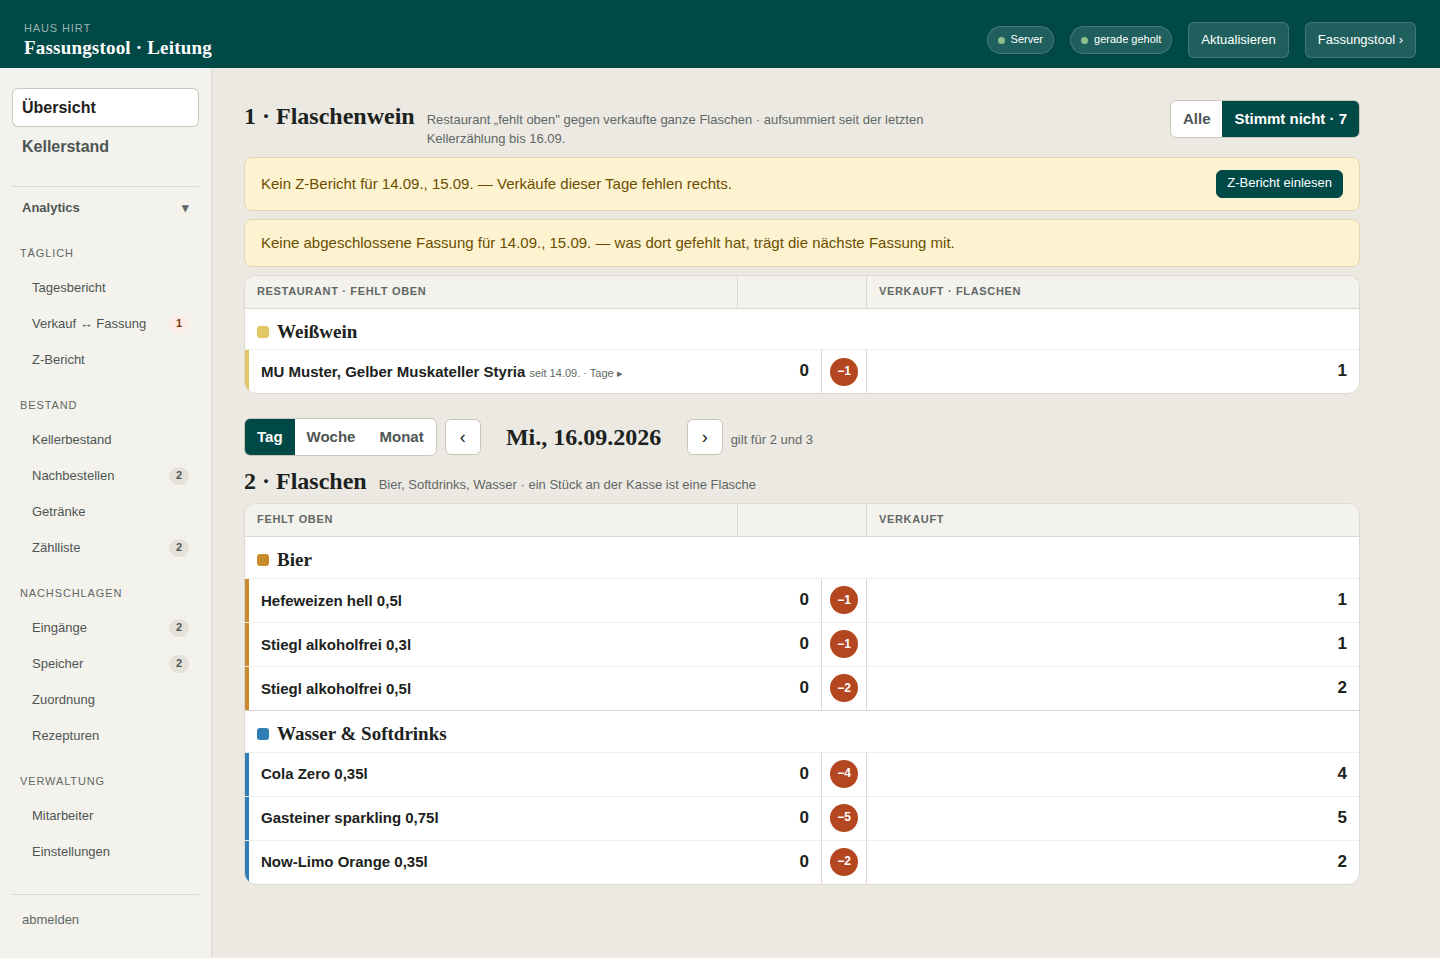
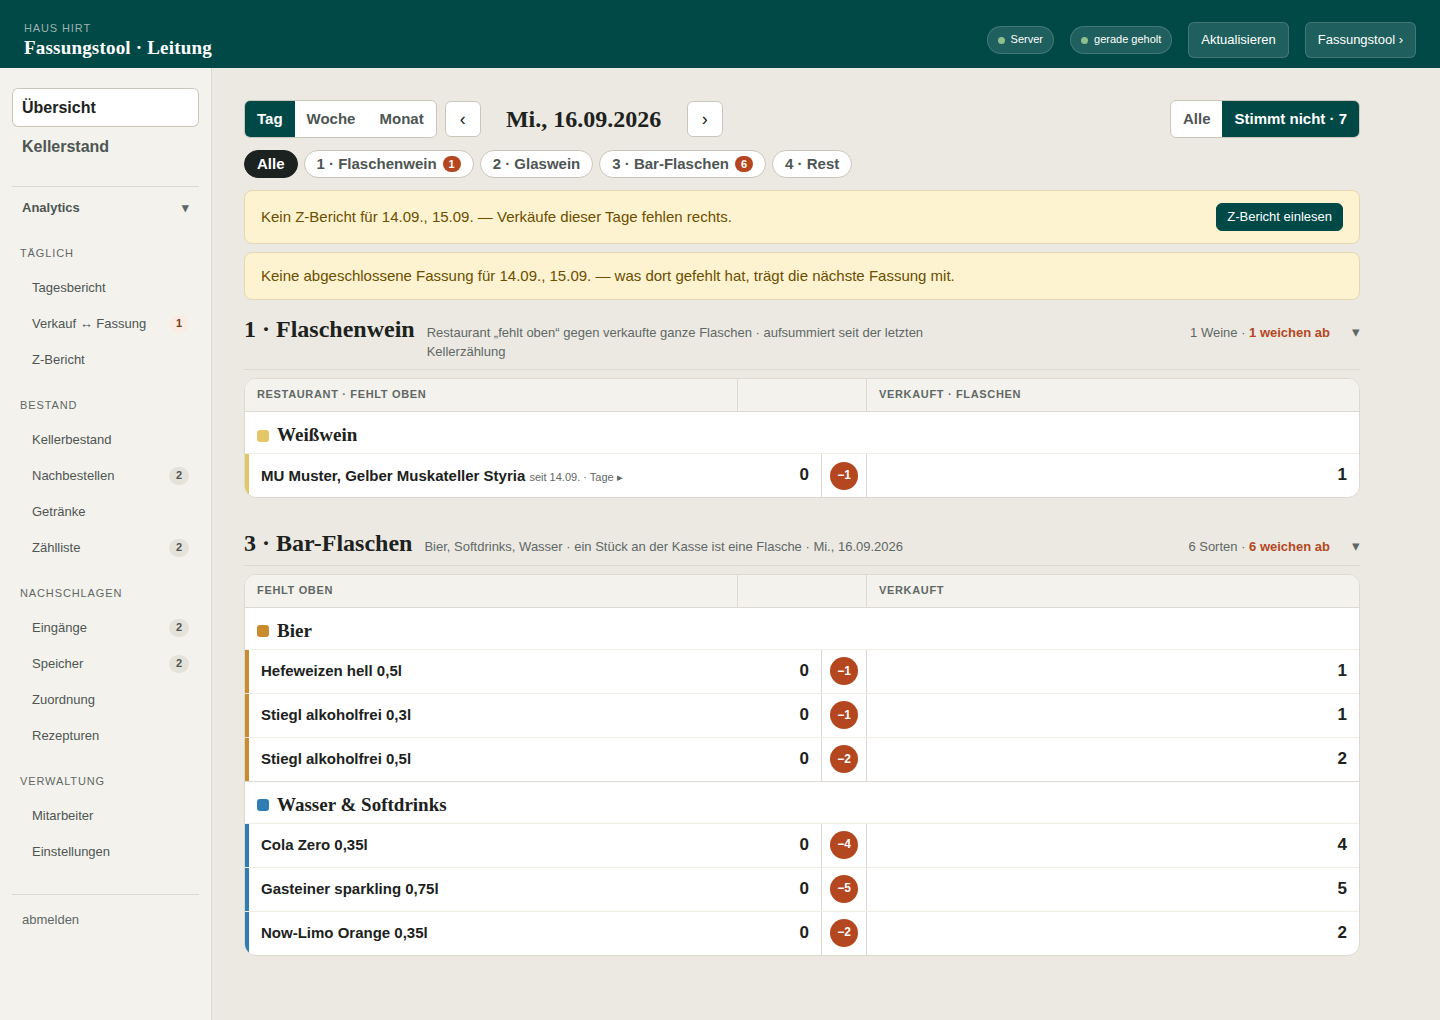
[software-engineer] Runde 24: Übersicht in vier Blöcken (Flaschenwein, Glaswein, Bar-Flaschen, Rest), filter- und aufklappbar
Claude-Session: https://claude.ai/code/session_01XL68Bp63fcSJLfNTZNmuMH

diff --git a/public/leitung.html b/public/leitung.html
@@ -417,8 +417,12 @@ nav.seite button.ana{padding-left:var(--space-5)}
 .bzu{display:block;width:100%;padding:6px var(--space-4);text-align:left;color:var(--fg-muted);
   font-size:var(--text-xs);background:var(--surface-2);border-top:1px solid var(--surface-3)}
 .bblock{margin-bottom:var(--space-6)}
-.bbkopf{display:flex;flex-wrap:wrap;align-items:baseline;gap:var(--space-3);margin-bottom:var(--space-2)}
-.bbkopf h2{font-size:24px}.bbkopf .rechts{margin-left:auto}
+.bbkopf{display:flex;flex-wrap:wrap;align-items:baseline;gap:var(--space-3);margin-bottom:var(--space-2);
+  width:100%;text-align:left;padding:var(--space-2) 0;border-bottom:1px solid var(--border)}
+.bbkopf h2{font-size:24px}
+.bbkopf .bbn{margin-left:auto;font-size:var(--text-sm);color:var(--fg-muted)}
+.bbkopf .bbn b{color:var(--danger)}
+.bbkopf .bbpf{color:var(--fg-muted);width:18px;text-align:right}
 .bblock.info .btab{opacity:.9}.bblock.info .bhd{background:var(--surface-3)}
 .bspur{background:var(--surface-2);border-top:1px solid var(--surface-3);padding:4px var(--space-4) 8px var(--space-6);font-size:var(--text-xs)}
 .bspur div{display:grid;grid-template-columns:1.4fr 1fr 1fr 1fr;gap:8px;padding:3px 0;font-variant-numeric:tabular-nums}
@@ -3370,69 +3374,90 @@ function block3(F){
     .sort((a,b)=>ARTEN.findIndex(q=>q.id===artVon(a.id))-ARTEN.findIndex(q=>q.id===artVon(b.id)) || artName(a.id).localeCompare(artName(b.id),"de"));
 }
 const pkt = d => Math.abs(d)<0.05 ? '<span class="dot ok" title="stimmt">✓</span>' : '<span class="dot no" title="weicht ab">'+fmtD(d)+'</span>';
+/* Runde 24 · Vier Blöcke in dieser Reihenfolge (Casimir, 30.09.): Flaschenwein,
+   Glaswein, Bar-Flaschen, Rest. Jeder für sich filter- und aufklappbar. */
+const BLOECKE=[
+  {id:"flasche", t:"Flaschenwein", s:"Restaurant „fehlt oben“ gegen verkaufte ganze Flaschen · aufsummiert seit der letzten Kellerzählung"},
+  {id:"glas",    t:"Glaswein",     s:"Bar-Weine gegen verkaufte Gläser · nur zur Info, ohne Urteil"},
+  {id:"bar",     t:"Bar-Flaschen", s:"Bier, Softdrinks, Wasser · ein Stück an der Kasse ist eine Flasche"},
+  {id:"rest",    t:"Rest",         s:"Serena, Mixer, Säfte · offen, nicht unter Kontrolle, nur zur Info"}
+];
 function vBlick(m){
   if(!UEB.ende) UEB.ende=letzterTag();
-  UEB.spur=UEB.spur||{};
+  UEB.spur=UEB.spur||{}; UEB.zu=UEB.zu||{}; UEB.block=UEB.block||"alle";
   const F=fenster(UEB.art, UEB.ende);
   const b1=block1(), b2=block2(F), b3=block3(F);
-  const n1=b1.zeilen.filter(z=>Math.abs(z.diff)>=0.05).length, n2=b2.filter(z=>Math.abs(z.diff)>=0.05).length;
+  const glas=b3.filter(z=>byId(z.id)&&!OFFEN_WEIN.includes(z.id)), rest=b3.filter(z=>!byId(z.id)||OFFEN_WEIN.includes(z.id));
+  const abw=z=>Math.abs(z.diff)>=0.05;
+  const n={flasche:b1.zeilen.filter(abw).length, glas:0, bar:b2.filter(abw).length, rest:0};
   const namen=gnNamen();
-  let h='';
-  /* ── 1 · Flaschenwein ── */
-  h+='<div class="bblock"><div class="bbkopf"><h2>1 · Flaschenwein</h2><span class="unter">Restaurant „fehlt oben" gegen verkaufte ganze Flaschen · aufsummiert seit der letzten Kellerzählung bis '+esc(kurzTag(b1.bis))+'</span>'+
-     '<div class="seg rechts" role="group"><button type="button" data-nur="0" class="'+(UEB.nur?'':'on')+'">Alle</button><button type="button" data-nur="1" class="'+(UEB.nur?'on':'')+'">Stimmt nicht · '+(n1+n2)+'</button></div></div>';
-  const lz=[...b1.luecken.ohneZ].sort().slice(-7), lf=[...b1.luecken.ohneF].sort().slice(-7);
-  if(lz.length) h+='<div class="hinweis warn bhw"><span>Kein Z-Bericht für '+lz.map(kurzTag).join(", ")+' — Verkäufe dieser Tage fehlen rechts.</span><button type="button" class="b klein stark" data-geh="import">Z-Bericht einlesen</button></div>';
-  if(lf.length) h+='<div class="hinweis warn bhw"><span>Keine abgeschlossene Fassung für '+lf.map(kurzTag).join(", ")+' — was dort gefehlt hat, trägt die nächste Fassung mit.</span></div>';
-  h+='<div class="btab"><div class="bhd"><div class="l">Restaurant · fehlt oben</div><div></div><div></div><div class="r">verkauft · Flaschen</div></div>';
-  let zeig1=b1.zeilen.filter(z=>!UEB.nur||Math.abs(z.diff)>=0.05);
-  if(!zeig1.length) h+='<div class="leer">'+(b1.zeilen.length?'Alle Flaschenweine stimmen.':'Seit der Zählung nichts zu vergleichen.')+'</div>';
-  let letzte=null;
-  zeig1.forEach(z=>{ const a=artVon(z.id), A=artInfo(a);
-    if(a!==letzte){ letzte=a; h+='<div class="bgrp k'+A.k+'"><i></i>'+esc(A.t)+'</div>'; }
-    h+='<button type="button" class="brow k'+A.k+'" data-spur="'+esc(z.id)+'"><div class="nm"><span class="'+(z.gn?'':'stammn')+'">'+esc(z.name)+'</span> <span class="m">seit '+esc(kurzTag(z.von))+' · Tage '+(UEB.spur[z.id]?'▾':'▸')+'</span></div>'+
-       '<div class="ql"><b>'+num(z.L)+'</b></div><div class="mid">'+pkt(z.diff)+'</div><div class="rt"><span class="sum">'+num(z.R)+'</span></div></button>';
-    if(UEB.spur[z.id]) h+='<div class="bspur">'+z.spur.map(s=>'<div class="'+(Math.abs(s.l-s.r)>=0.05?'ab':'')+'"><span>'+esc(deTag(s.t))+'</span><span>fehlt '+num(s.l)+'</span><span>verkauft '+num(s.r)+'</span><span>Summe '+fmtD(s.kum)+'</span></div>').join("")+'</div>';
-  });
-  h+='</div></div>';
+  const gruppe=(a,letzte)=>{ const A=artInfo(a); return a!==letzte?'<div class="bgrp k'+A.k+'"><i></i>'+esc(A.t)+'</div>':''; };
 
-  /* ── Zeitraum für Block 2 und 3 ── */
-  h+='<div class="bzeit" style="margin-top:var(--space-6)">'+
+  let h='<div class="bzeit">'+
     '<div class="seg" role="group" aria-label="Zeitraum">'+
       ["tag","woche","monat"].map(a=>'<button type="button" data-art="'+a+'" class="'+(UEB.art===a?'on':'')+'" aria-pressed="'+(UEB.art===a)+'">'+
         {tag:"Tag",woche:"Woche",monat:"Monat"}[a]+'</button>').join("")+'</div>'+
     '<button type="button" class="pf" id="bZur" aria-label="früher">‹</button>'+
     '<span class="bdatum">'+esc(fensterTitel(UEB.art,F))+'</span>'+
-    '<button type="button" class="pf" id="bVor" aria-label="später">›</button><span class="unter">gilt für 2 und 3</span></div>';
+    '<button type="button" class="pf" id="bVor" aria-label="später">›</button>'+
+    '<div class="seg rechts" role="group"><button type="button" data-nur="0" class="'+(UEB.nur?'':'on')+'">Alle</button><button type="button" data-nur="1" class="'+(UEB.nur?'on':'')+'">Stimmt nicht · '+(n.flasche+n.bar)+'</button></div></div>';
+  h+='<div class="bchips">'+[{id:"alle",t:"Alle"},...BLOECKE].map((B,i)=>'<button type="button" class="bchip'+(UEB.block===B.id?' on':'')+'" data-blk="'+B.id+'">'+
+      (i?i+' · ':'')+esc(B.t)+(n[B.id]?'<sup>'+n[B.id]+'</sup>':'')+'</button>').join("")+'</div>';
+  const lz=[...b1.luecken.ohneZ].sort().slice(-7), lf=[...b1.luecken.ohneF].sort().slice(-7);
+  if(lz.length) h+='<div class="hinweis warn bhw"><span>Kein Z-Bericht für '+lz.map(kurzTag).join(", ")+' — Verkäufe dieser Tage fehlen rechts.</span><button type="button" class="b klein stark" data-geh="import">Z-Bericht einlesen</button></div>';
+  if(lf.length) h+='<div class="hinweis warn bhw"><span>Keine abgeschlossene Fassung für '+lf.map(kurzTag).join(", ")+' — was dort gefehlt hat, trägt die nächste Fassung mit.</span></div>';
 
-  /* ── 2 · Flaschen ── */
-  h+='<div class="bblock"><div class="bbkopf"><h2>2 · Flaschen</h2><span class="unter">Bier, Softdrinks, Wasser · ein Stück an der Kasse ist eine Flasche</span></div>';
-  h+='<div class="btab"><div class="bhd"><div class="l">fehlt oben</div><div></div><div></div><div class="r">verkauft</div></div>';
-  const zeig2=b2.filter(z=>!UEB.nur||Math.abs(z.diff)>=0.05);
-  if(!zeig2.length) h+='<div class="leer">'+(b2.length?'Alle Flaschen stimmen.':'Nichts im Zeitraum.')+'</div>';
-  letzte=null;
-  zeig2.forEach(z=>{ const a=artVon(z.id), A=artInfo(a);
-    if(a!==letzte){ letzte=a; h+='<div class="bgrp k'+A.k+'"><i></i>'+esc(A.t)+'</div>'; }
-    h+='<div class="brow k'+A.k+'"><div class="nm">'+esc(z.namen[0]||GN(z.id))+(z.namen.length>1?' <span class="m">+ '+esc(z.namen.slice(1).join(", "))+'</span>':'')+'</div>'+
+  const block=(B,i,kopfL,kopfR,inhalt,anzahl,info)=>{
+    if(UEB.block!=="alle"&&UEB.block!==B.id) return '';
+    if(UEB.nur&&info) return '';
+    const zu=!!UEB.zu[B.id];
+    return '<div class="bblock'+(info?' info':'')+'"><button type="button" class="bbkopf" data-zu="'+B.id+'" aria-expanded="'+(!zu)+'">'+
+      '<h2>'+(i+1)+' · '+esc(B.t)+'</h2><span class="unter">'+esc(B.s)+(B.id!=="flasche"?' · '+esc(fensterTitel(UEB.art,F)):'')+'</span>'+
+      '<span class="bbn">'+anzahl+(n[B.id]?' · <b>'+n[B.id]+' weichen ab</b>':'')+'</span><span class="bbpf">'+(zu?'▸':'▾')+'</span></button>'+
+      (zu?'':'<div class="btab"><div class="bhd"><div class="l">'+kopfL+'</div><div></div><div></div><div class="r">'+kopfR+'</div></div>'+inhalt+'</div>')+'</div>';
+  };
+
+  /* 1 · Flaschenwein */
+  let x='', letzte=null;
+  const z1=b1.zeilen.filter(z=>!UEB.nur||abw(z));
+  if(!z1.length) x+='<div class="leer">'+(b1.zeilen.length?'Alle Flaschenweine stimmen.':'Seit der Zählung nichts zu vergleichen.')+'</div>';
+  z1.forEach(z=>{ const a=artVon(z.id), A=artInfo(a); x+=gruppe(a,letzte); letzte=a;
+    x+='<button type="button" class="brow k'+A.k+'" data-spur="'+esc(z.id)+'"><div class="nm"><span class="'+(z.gn?'':'stammn')+'">'+esc(z.name)+'</span> <span class="m">seit '+esc(kurzTag(z.von))+' · Tage '+(UEB.spur[z.id]?'▾':'▸')+'</span></div>'+
+       '<div class="ql"><b>'+num(z.L)+'</b></div><div class="mid">'+pkt(z.diff)+'</div><div class="rt"><span class="sum">'+num(z.R)+'</span></div></button>';
+    if(UEB.spur[z.id]) x+='<div class="bspur">'+z.spur.map(s=>'<div class="'+(Math.abs(s.l-s.r)>=0.05?'ab':'')+'"><span>'+esc(deTag(s.t))+'</span><span>fehlt '+num(s.l)+'</span><span>verkauft '+num(s.r)+'</span><span>Summe '+fmtD(s.kum)+'</span></div>').join("")+'</div>';
+  });
+  h+=block(BLOECKE[0],0,'Restaurant · fehlt oben','verkauft · Flaschen',x,b1.zeilen.length+' Weine',false);
+
+  /* 2 · Glaswein */
+  x=''; letzte=null;
+  if(!glas.length) x+='<div class="leer">Nichts im Zeitraum.</div>';
+  glas.forEach(z=>{ const a=artVon(z.id), A=artInfo(a); x+=gruppe(a,letzte); letzte=a;
+    x+='<div class="brow k'+A.k+'"><div class="nm">'+esc(namen[z.id]?zeilenName(z.id,namen):artName(z.id))+'</div>'+
+       '<div class="ql"><b>'+num(z.L)+'</b></div><div class="mid"></div><div class="rt">'+(z.gl?'<span class="bs gl">'+GLAS_SVG+z.gl+' Gläser ≈ '+num(z.glFl)+' Fl.</span>':'<span class="klein">nichts verkauft</span>')+'</div></div>'; });
+  h+=block(BLOECKE[1],1,'Bar · fehlt oben','verkauft · Gläser',x,glas.reduce((a,z)=>a+z.gl,0)+' Gläser',true);
+
+  /* 3 · Bar-Flaschen */
+  x=''; letzte=null;
+  const z2=b2.filter(z=>!UEB.nur||abw(z));
+  if(!z2.length) x+='<div class="leer">'+(b2.length?'Alle Flaschen stimmen.':'Nichts im Zeitraum.')+'</div>';
+  z2.forEach(z=>{ const a=artVon(z.id), A=artInfo(a); x+=gruppe(a,letzte); letzte=a;
+    x+='<div class="brow k'+A.k+'"><div class="nm">'+esc(z.namen[0]||GN(z.id))+(z.namen.length>1?' <span class="m">+ '+esc(z.namen.slice(1).join(", "))+'</span>':'')+'</div>'+
        '<div class="ql"><b>'+num(z.L)+'</b></div><div class="mid">'+pkt(z.diff)+'</div><div class="rt"><span class="sum">'+num(z.R)+'</span></div></div>'; });
-  h+='</div></div>';
+  h+=block(BLOECKE[2],2,'fehlt oben','verkauft',x,b2.length+' Sorten',false);
 
-  /* ── 3 · Offen ── */
-  if(!UEB.nur){
-    h+='<div class="bblock info"><div class="bbkopf"><h2>3 · Offen</h2><span class="unter">Bar-Weine, Serena, Mixer, Säfte · nicht unter Kontrolle, nur zur Info</span></div>';
-    h+='<div class="btab"><div class="bhd"><div class="l">fehlt oben (Bar/Lade)</div><div></div><div></div><div class="r">verkauft</div></div>';
-    if(!b3.length) h+='<div class="leer">Nichts im Zeitraum.</div>';
-    letzte=null;
-    b3.forEach(z=>{ const a=artVon(z.id), A=artInfo(a);
-      if(a!==letzte){ letzte=a; h+='<div class="bgrp k'+A.k+'"><i></i>'+esc(A.t)+'</div>'; }
-      const r=[z.gl?'<span class="bs gl">'+GLAS_SVG+z.gl+' Gläser ≈ '+num(z.glFl)+' Fl.</span>':'', z.stk?'<span class="bs">'+num(z.stk)+' Stk.</span>':''].join("");
-      h+='<div class="brow k'+A.k+'"><div class="nm">'+esc(namen[z.id]&&byId(z.id)?zeilenName(z.id,namen):artName(z.id))+'</div>'+
-         '<div class="ql"><b>'+num(z.L)+'</b></div><div class="mid"></div><div class="rt">'+(r||'<span class="klein">nichts verkauft</span>')+'</div></div>'; });
-    h+='</div></div>';
-  }
+  /* 4 · Rest */
+  x=''; letzte=null;
+  if(!rest.length) x+='<div class="leer">Nichts im Zeitraum.</div>';
+  rest.forEach(z=>{ const a=artVon(z.id), A=artInfo(a); x+=gruppe(a,letzte); letzte=a;
+    const r=[z.gl?'<span class="bs gl">'+GLAS_SVG+z.gl+' Gläser ≈ '+num(z.glFl)+' Fl.</span>':'', z.stk?'<span class="bs">'+num(z.stk)+' Stk.</span>':''].join("");
+    x+='<div class="brow k'+A.k+'"><div class="nm">'+esc(artName(z.id))+'</div><div class="ql"><b>'+num(z.L)+'</b></div><div class="mid"></div><div class="rt">'+(r||'<span class="klein">nichts verkauft</span>')+'</div></div>'; });
+  h+=block(BLOECKE[3],3,'fehlt oben (Bar/Lade)','verkauft',x,rest.length+' Sorten',true);
+
   m.innerHTML=h;
   m.querySelectorAll("[data-art]").forEach(b=>b.onclick=()=>{ UEB.art=b.dataset.art; merkeUeb(); zeichne(); });
   m.querySelectorAll("[data-nur]").forEach(b=>b.onclick=()=>{ UEB.nur=b.dataset.nur==="1"; zeichne(); });
+  m.querySelectorAll("[data-blk]").forEach(b=>b.onclick=()=>{ UEB.block=b.dataset.blk; zeichne(); });
+  m.querySelectorAll("[data-zu]").forEach(b=>b.onclick=()=>{ UEB.zu[b.dataset.zu]=!UEB.zu[b.dataset.zu]; zeichne(); });
   m.querySelectorAll("[data-spur]").forEach(b=>b.onclick=()=>{ UEB.spur[b.dataset.spur]=!UEB.spur[b.dataset.spur]; zeichne(); });
   m.querySelectorAll("[data-geh]").forEach(b=>b.onclick=()=>{ SEITE=b.dataset.geh; ANA_OFFEN=true; zeichne(); window.scrollTo(0,0); });
   $("#bZur").onclick=()=>{ UEB.ende=blaettern(UEB.art,F.von,-1); zeichne(); };

diff --git a/public/sw.js b/public/sw.js
@@ -21,7 +21,7 @@
    Sonst behält das iPhone hartnäckig den alten Stand.
    ════════════════════════════════════════════════════════════════════ */
 
-const VERSION = "v79";
+const VERSION = "v80";
 const SPEICHER = "hh-fassung-" + VERSION;
 
 /* Was im Keller verfügbar sein muss. Die Schriften stehen mit drin,

diff --git a/STAND.md b/STAND.md
@@ -27,9 +27,9 @@ Tiefe Details: `PROJEKTANLEITUNG-Fassungstool.md`, `UEBERGABE-TECHNISCH.md`.
 - Befund: Fassung `tag_2026-09-28` ist leer und offen (Casimir löscht sie); `tag_2026-09-29`
   deckt 28.+29. ab → nur die Wochenansicht vergleicht richtig.
 - PR: Wein ohne Menge im Kassennamen zählt in der Übersicht als ⅛-Glas, markiert „angenommen".
-- **Übersicht = drei Abgleiche** (Casimir, 30.09.): 1 Flaschenwein (Restaurant `rest` gegen
+- **Übersicht = vier Blöcke** (Casimir, 30.09.), je filter- und aufklappbar: 1 Flaschenwein (Restaurant `rest` gegen
   verkaufte ganze Flaschen ≥ 0,5 l, aufsummiert seit Kellerzählung je Wein, Tagesspur),
-  2 Flaschen (Bier/Soft/Wasser, Stück = Flasche, Zeitraum), 3 Offen (Bar-Wein, Serena,
+  2 Glaswein (Bar-Wein gegen Gläser, Info), 3 Bar-Flaschen (Bier/Soft/Wasser), 4 Rest (Serena,
   Mixer, Säfte — nur Info). Live-Befund: Nittnaus 17, Gesellmann Gols 12, Glatzer 8,
   Leindl 6 fehlten im Restaurant ohne verkaufte Flasche; Z 42–48 fehlen noch.
 
